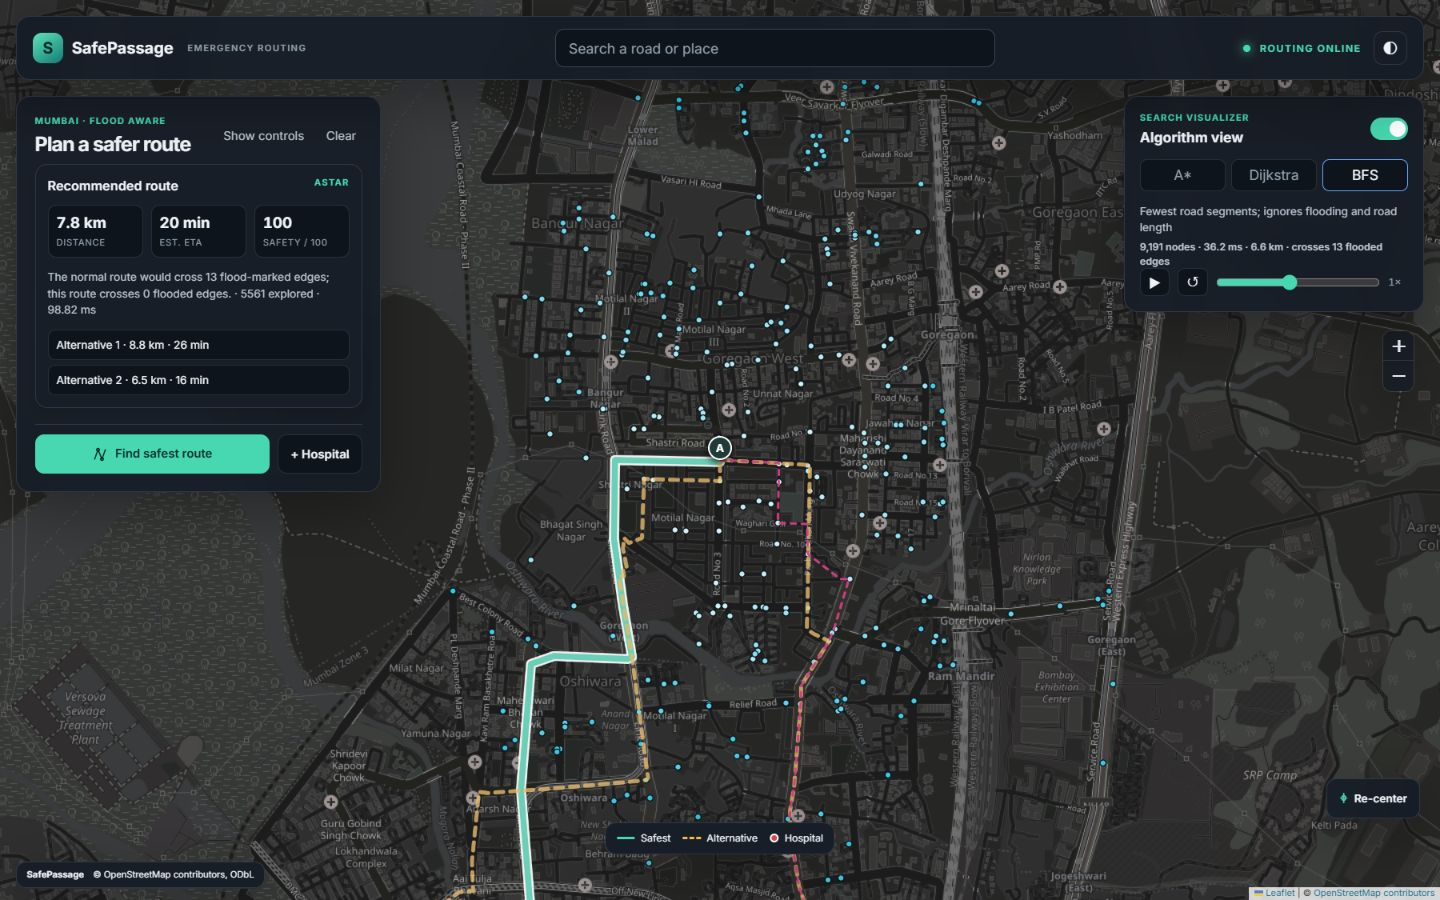
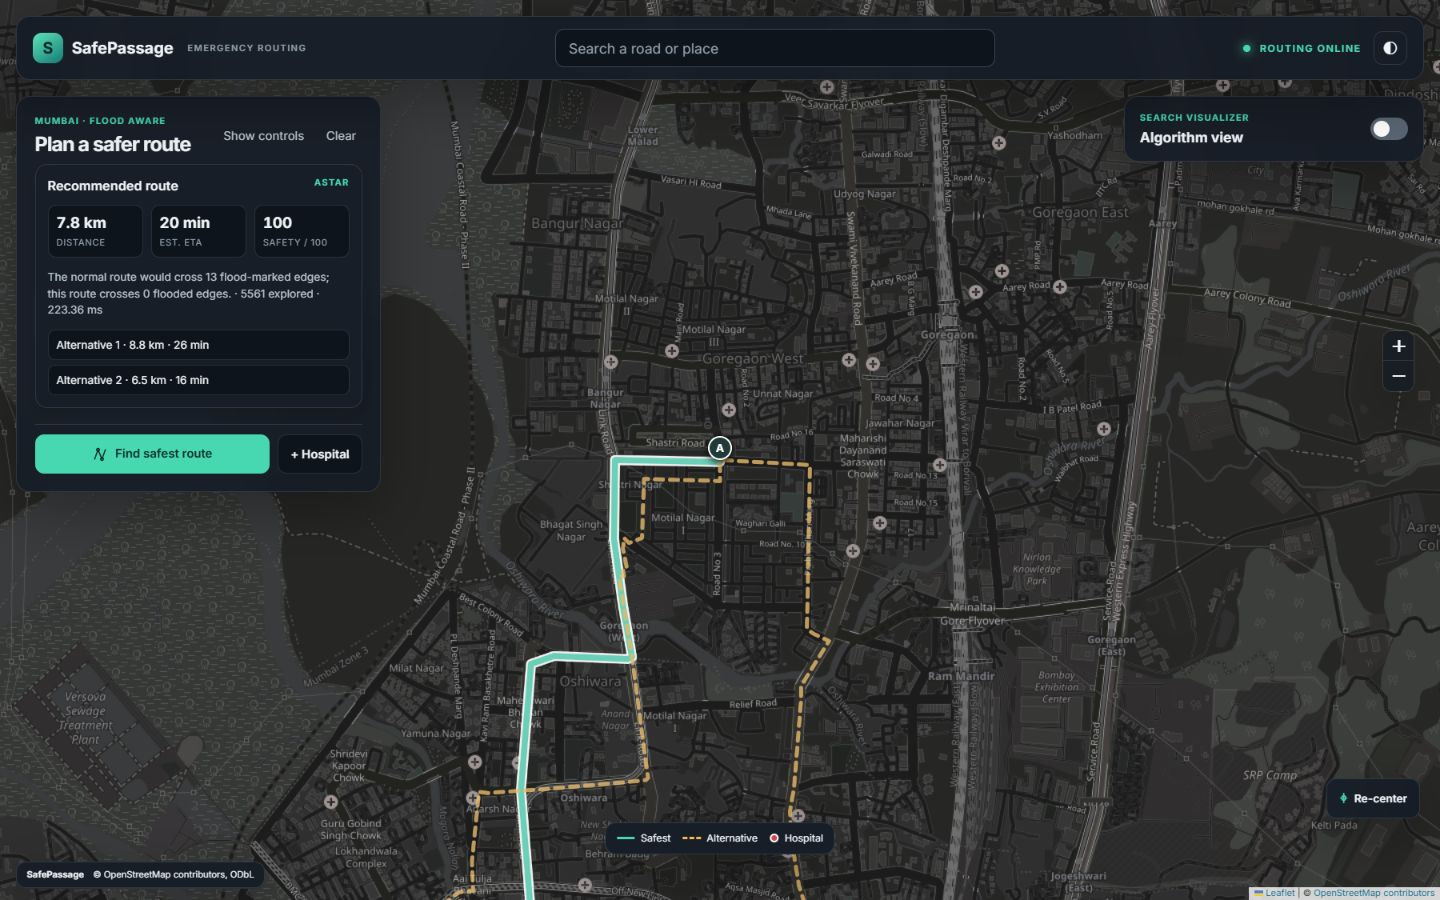
Polish README and refresh screenshots

diff --git a/README.md b/README.md
@@ -1,8 +1,18 @@
 # SafePassage
 
-SafePassage is a flood-aware emergency routing prototype for Mumbai. It turns an OpenStreetMap road extract into a directed weighted graph, compares route searches, and supports illustrative rain-risk and road-closure scenarios, nearest-hospital lookup, cut-off analysis, and road-name search.
+SafePassage is a flood-aware emergency routing demo for Mumbai, built on a real OpenStreetMap road extract. It explores how route recommendations change when roads are flood-affected or closed. The project implements core data structures and graph algorithms from scratch to make those tradeoffs visible and measurable.
+
+## Highlights
+
+- Routes across a directed graph of **17,787 nodes** and **40,950 edges**.
+- A* explores **245.5 nodes vs. Dijkstra’s 1,189 (20.7%)** on short routes, and **1,497.5 vs. 7,021.5 (21.3%)** on medium routes.
+- Edge-penalty alternatives take **471.77 ms** median vs. **5,695.86 ms** for exact Yen k=3: about **12.1× faster** in the measured comparison.
+- **69 tests pass** (one optional real-graph test is skipped); custom binary MinHeap, union-find, and trie are implemented from scratch.
+- A* is not always faster: its long-route p95 is **148.37 ms**, compared with Dijkstra’s **121.07 ms**.
 
 ## Screenshots
+
+These demo screenshots show a heavy-rain route with the A* recommendation, flood zones visible, and Algorithm view off. **The demo screenshots will be refreshed as the interface evolves.**
 
 | Desktop · dark | Desktop · light |
 | --- | --- |
@@ -12,34 +22,34 @@ SafePassage is a flood-aware emergency routing prototype for Mumbai. It turns an
 | --- | --- |
 | ![SafePassage mobile dark](docs/screenshots/mobile-dark.jpg) | ![SafePassage mobile light](docs/screenshots/mobile-light.jpg) |
 
-All four screenshots above show a calculated route with Algorithm view enabled and BFS selected; the recommendation card remains the safety-aware A* route.
+### Algorithm view
+
+The separate comparison view visualizes BFS search dots and its final path. These screenshots show BFS selected; the recommendation remains the scenario-aware A* route.
+
+| Desktop · dark | Desktop · light |
+| --- | --- |
+| ![BFS algorithm view desktop dark](docs/screenshots/algorithm-view-desktop-dark.jpg) | ![BFS algorithm view desktop light](docs/screenshots/algorithm-view-desktop-light.jpg) |
+
+| Mobile · dark | Mobile · light |
+| --- | --- |
+| ![BFS algorithm view mobile dark](docs/screenshots/algorithm-view-mobile-dark.jpg) | ![BFS algorithm view mobile light](docs/screenshots/algorithm-view-mobile-light.jpg) |
+
+## How it works
+
+- A regional OpenStreetMap extract is loaded into a directed road graph with simplified geometry and physical edge lengths.
+- Rain and closure scenarios build a scenario graph with adjusted costs or removed roads.
+- Safety-aware A* computes the recommended route; its summary and safety score stay independent of the comparison view.
+- Dijkstra, A*, and BFS provide separate search traces and final paths for comparison.
+- Edge-penalty searches suggest diverse alternatives; multi-source Dijkstra on the reversed graph computes nearest reachable hospitals.
+- Union-find identifies disconnected road components and helps report closure cut-offs.
 
 ## Features
 
-- Directed road graph with OSM one-way rules, simplified geometry and physical edge lengths.
-- Recommended flood-aware A* route plus separate Dijkstra/A*/BFS search traces; animated search visualization never changes the recommended route.
-- Rain cost adjustments and configurable road-closure circles, which can be combined.
-- Route alternatives, nearest reachable hospitals, unreachable-area analysis, autocomplete, and coordinate snapping.
-- Route distance, estimated travel time, flooded-edge count, and a simulated safety score.
-- FastAPI service and a Leaflet UI; no external routing or graph packages at runtime.
-
-## Architecture
-
-```mermaid
-flowchart LR
-    OSM[OpenStreetMap extract] --> Loader[OSM loader]
-    Loader --> Graph[Directed Graph + coordinates]
-    Spots[Illustrative flood spots + OSM hospitals] --> Scenarios[Scenario builder]
-    Graph --> Scenarios
-    Graph --> Search[Dijkstra / A* / BFS]
-    Scenarios --> Search
-    Search --> Facilities[Nearest hospitals / cut-off / alternatives]
-    Graph --> Indexes[Spatial grid / Trie]
-    Search --> API[FastAPI]
-    Facilities --> API
-    Indexes --> API
-    API --> UI[Leaflet frontend]
-```
+- Directed road graph with OSM one-way rules, simplified geometry, and physical edge lengths.
+- Flood-risk and road-closure scenarios, including combined conditions.
+- Route distance, estimated travel time, flooded-edge count, alternatives, and a simulated safety score.
+- Nearest reachable hospitals, cut-off analysis, autocomplete, and coordinate snapping.
+- FastAPI service and Leaflet UI; no external routing or graph packages at runtime.
 
 ## Algorithms and data structures
 
@@ -59,13 +69,65 @@ Let `V` be nodes, `E` directed edges, `K` the requested route count, `P` a queri
 | Trie | Case-insensitive road/place prefix search | Insert `O(L)` for name length `L`; prefix walk `O(P)` plus result traversal |
 | Uniform spatial grid | Snap a coordinate to the exact nearest graph node | `O(C log C + V)` worst case for cell ordering and distance checks |
 
-## Service performance
-
-Startup prewarms normal and heavy-rain scenario graphs, the reversed base graph, hospital costs and A* coordinates. In this round, startup took 4.01 s and process RSS was 124.3 MiB. On the 17,787-node local dataset, direct `/api/route` calls with three alternatives took 1.44 s normal, 1.25 s heavy rain and 1.33 s with one closure on the first request; identical repeats took 56 ms, 31 ms and 220 ms. The browser requests the main path without alternatives or the normal-route comparison first, then fetches both in `/api/alternatives`; that follow-up took 0.70 s normal, 0.93 s heavy rain and 0.81 s with one closure. See [the round profile](docs/BENCHMARKS.md#service-profile-from-this-fix-round).
-
 ## Benchmarks
 
-Measured on the included 17,787-node graph with 200 deterministic pairs in each of three distance bands. On this machine, A* median latency was **1.78 ms** for short pairs, **19.39 ms** for medium pairs, and **54.99 ms** for long pairs. Its long-band p95 was **148.37 ms**, slower than Dijkstra’s **121.07 ms**. Edge-penalty alternatives returned three routes in a median **472 ms**, compared with **5,696 ms** for exact Yen k=3. These are local single-machine measurements, not service guarantees; BFS optimizes hop count, not weighted travel cost. See [the full method and tables](docs/BENCHMARKS.md), [raw results](docs/benchmarks/results.json), and [latency chart](docs/benchmarks/algorithm_latency.png).
+Measured on the included **17,787-node, 40,950-edge graph** with 200 deterministic pairs in each of three distance bands. The median A*/Dijkstra finalized-node ratios are **0.207** for short routes and **0.213** for medium routes. A* median latency is **1.78 ms** short, **19.39 ms** medium, and **54.99 ms** long. On long routes, A* p95 is **148.37 ms**, slower than Dijkstra’s **121.07 ms**. These are local single-machine measurements, not service guarantees; BFS minimizes hop count rather than weighted travel cost.
+
+![Median nodes explored by route algorithm](docs/benchmarks/algorithm_nodes.png)
+
+![Median route-search latency by distance band](docs/benchmarks/algorithm_latency.png)
+
+Edge-penalty alternatives returned three routes in **471.77 ms** median, compared with **5,695.86 ms** for exact Yen k=3 (about **12.1× faster** in this measured comparison). See [the full benchmark method and tables](docs/BENCHMARKS.md) and [raw results](docs/benchmarks/results.json).
+
+### Service performance
+
+Startup prewarms normal and heavy-rain scenario graphs, the reversed base graph, hospital costs, and A* heuristic coordinates. Measured startup was **4.01 s** with process RSS **124.3 MiB** at readiness. On the same local graph, direct `/api/route` calls with three alternatives took **1.44 s** normal, **1.25 s** heavy rain, and **1.33 s** with one closure on the first request; identical repeats took **56 ms**, **31 ms**, and **220 ms**. The UI loads the main route before alternatives and the normal-route comparison; those follow-up requests took **699 ms**, **931 ms**, and **812 ms**. Details are in the [service profile](docs/BENCHMARKS.md#service-profile-from-this-fix-round).
+
+## Try it
+
+Start the app locally, then call `/api/route` with this verified Mumbai pair:
+
+```bash
+curl -X POST http://127.0.0.1:8000/api/route \
+  -H "Content-Type: application/json" \
+  -d '{"origin":{"lat":19.1597,"lng":72.8399},"destination":{"lat":19.1105,"lng":72.8420},"scenario":"heavy_rain","algorithm":"astar","alternatives":0,"include_normal_comparison":false,"closures":[]}'
+```
+
+PowerShell equivalent:
+
+```powershell
+$body = @{
+  origin = @{ lat = 19.1597; lng = 72.8399 }
+  destination = @{ lat = 19.1105; lng = 72.8420 }
+  scenario = 'heavy_rain'
+  algorithm = 'astar'
+  alternatives = 0
+  include_normal_comparison = $false
+  closures = @()
+} | ConvertTo-Json -Depth 5
+
+Invoke-RestMethod -Method Post -Uri http://127.0.0.1:8000/api/route `
+  -ContentType 'application/json' -Body $body
+```
+
+Trimmed response shape from that pair (the coordinate path is omitted):
+
+```json
+{
+  "route": {
+    "distance_m": 7781.3,
+    "duration_s": 1206.6,
+    "cost": 9337.6,
+    "flooded_edges": 0,
+    "safety_score": 100
+  },
+  "alternatives": [],
+  "algorithm": "astar",
+  "scenario": "heavy_rain",
+  "nodes_explored": 5561,
+  "compute_ms": 223.36
+}
+```
 
 ## Run locally on Windows
 
@@ -87,7 +149,9 @@ Tests use small local fixtures and need neither the network nor `data/raw`. The 
 
 ## Docker
 
-Docker and Docker Compose are required. In PowerShell from the repository root:
+Docker and Docker Compose are required. The container image is built in CI; it has not been verified on the author's machine.
+
+In PowerShell from the repository root:
 
 ```powershell
 Copy-Item .env.example .env
@@ -121,6 +185,11 @@ Request guards use in-memory per-process rate counters; they reset on restart an
 ## Future work
 
 Use verified flood and hospital datasets, assess routing assumptions with local emergency stakeholders, add live traffic only with a licensed source, and move rate limiting to a shared edge or datastore before scaling beyond one process.
+
+## Author
+
+**Anish Kumar Tiwari** · B.Sc. IT student · Mumbai  
+[LinkedIn](https://www.linkedin.com/in/anish-tiwari-8695473a5) · [GitHub](https://github.com/anish84295-eng)
 
 ## License
 
